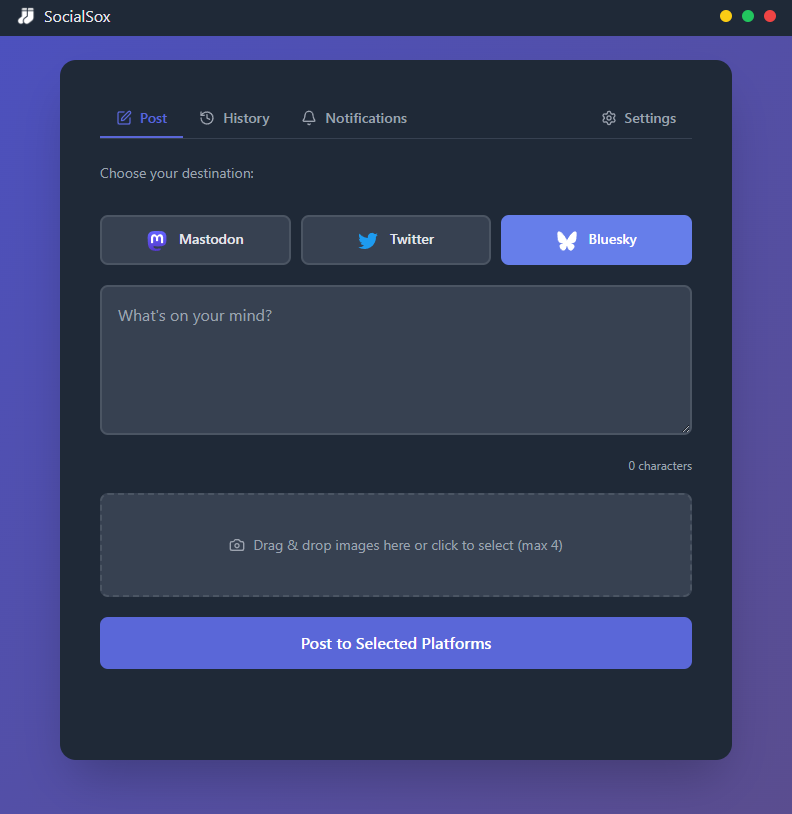
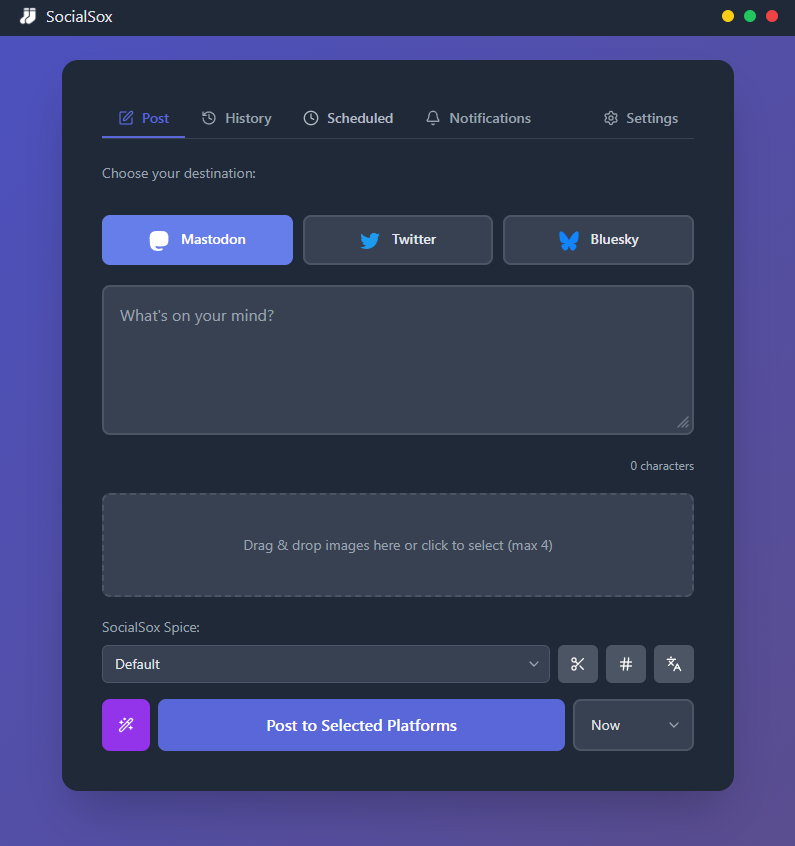
docs

diff --git a/README.md b/README.md
@@ -33,11 +33,13 @@ Today's social media landscape is fragmented. Your audience is scattered across 
 - ⏰ Schedule posts for future publication
 - 🔄 Drag-and-drop to reorder scheduled posts
 - 📅 Automatic posting at scheduled times
+- ⚠ Requires the app to be running for automatic posting
 
 **Data Synchronization**
 - 🔄 Sync posting history and scheduled posts to a local directory
 - ⏱ Automatic periodic sync
 - 🔧 Manual sync option
+- ⚠ Sync pulls the latest file without merging changes
 
 **AI Optimization**
 - 🤖 Optimize messages using Grok AI
@@ -64,6 +66,12 @@ Today's social media landscape is fragmented. Your audience is scattered across 
 
 ### Notifications
 ![Monitor notifications from connected platforms](screenshots/notifications-tab.png)
+
+### Scheduled Posts
+![Schedule posts for future publication](screenshots/schedule.png)
+
+### Statistics & Analytics
+![View posting statistics and charts](screenshots/stats.png)
 
 ## Project Notes
 
